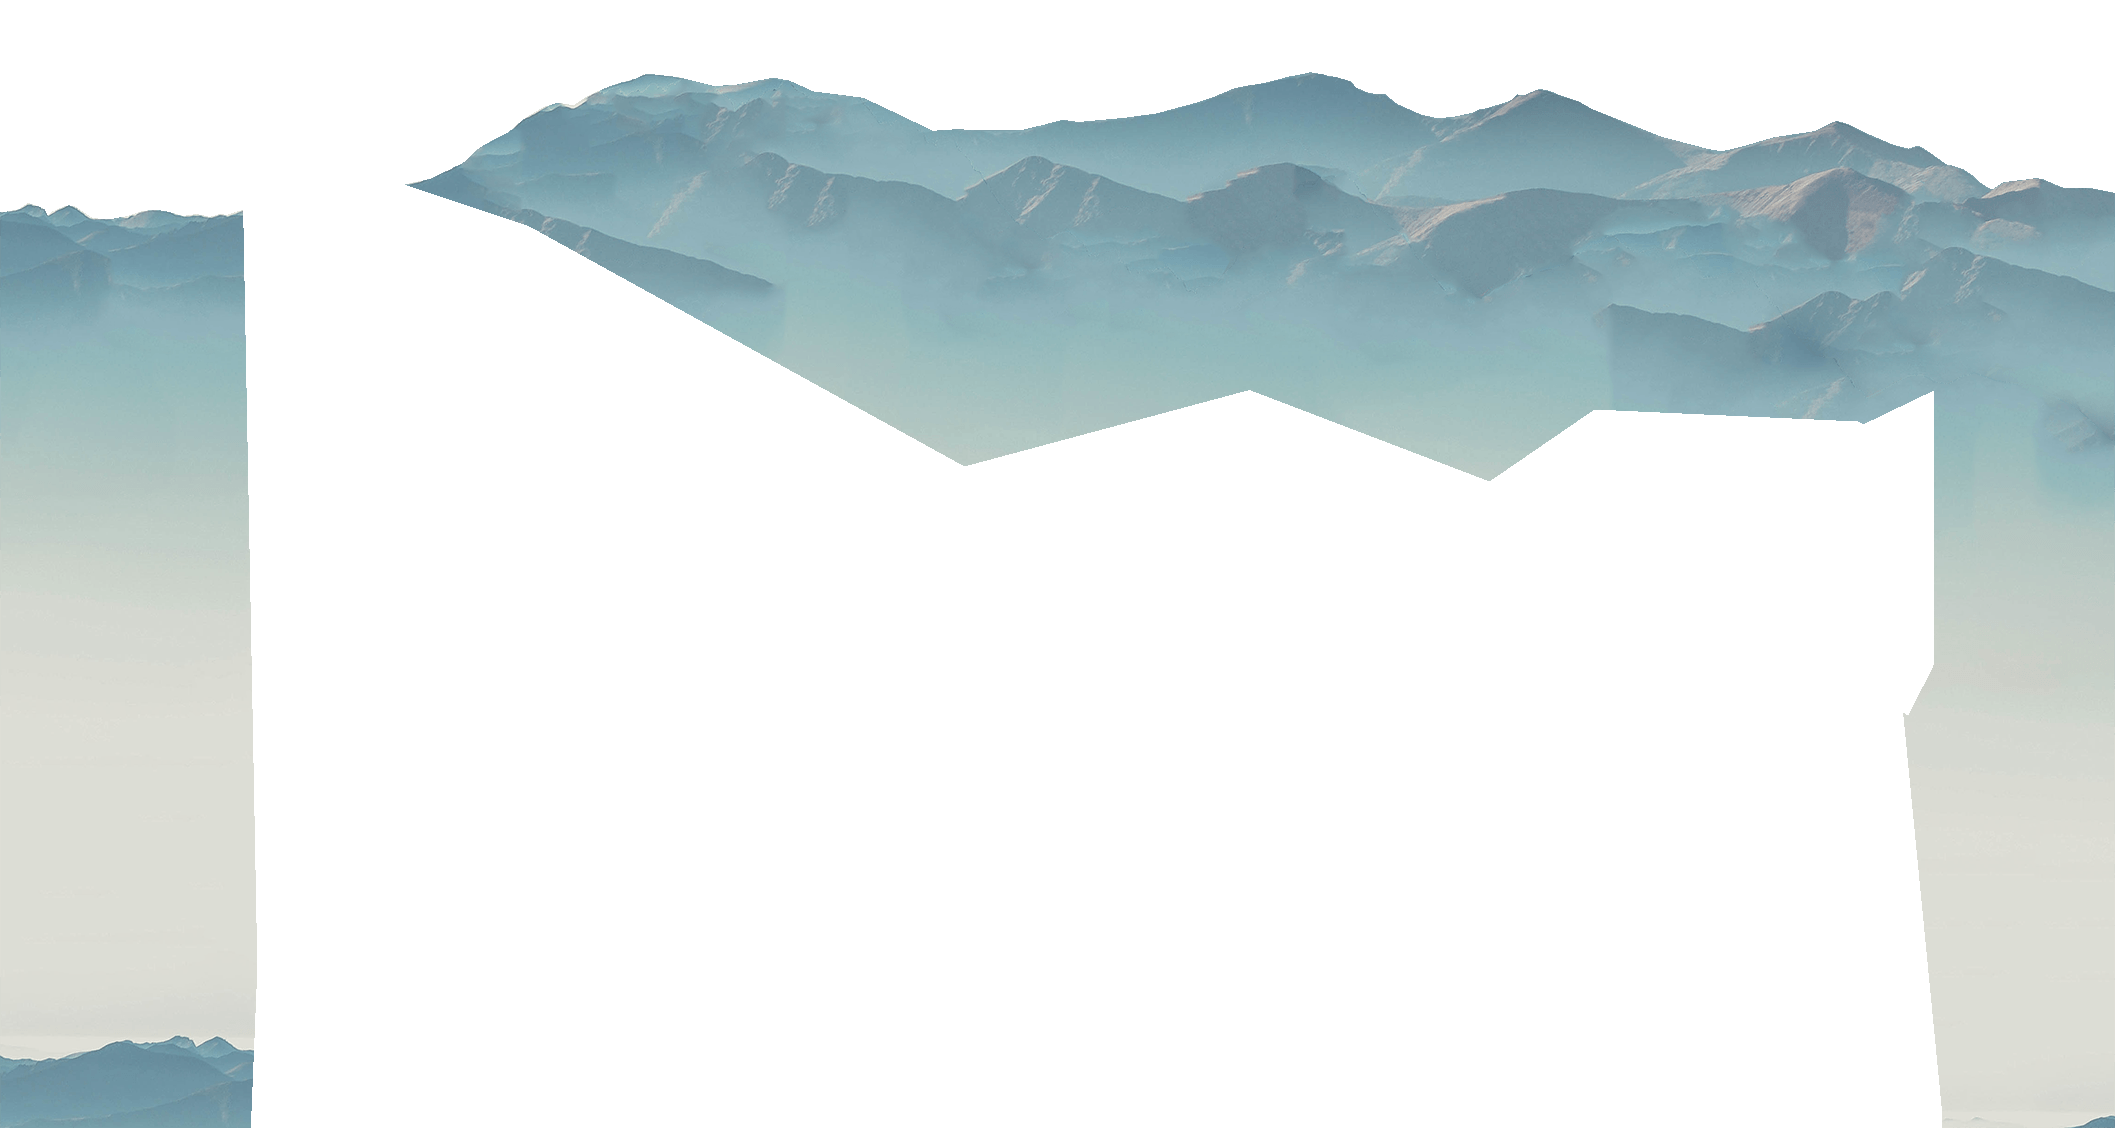
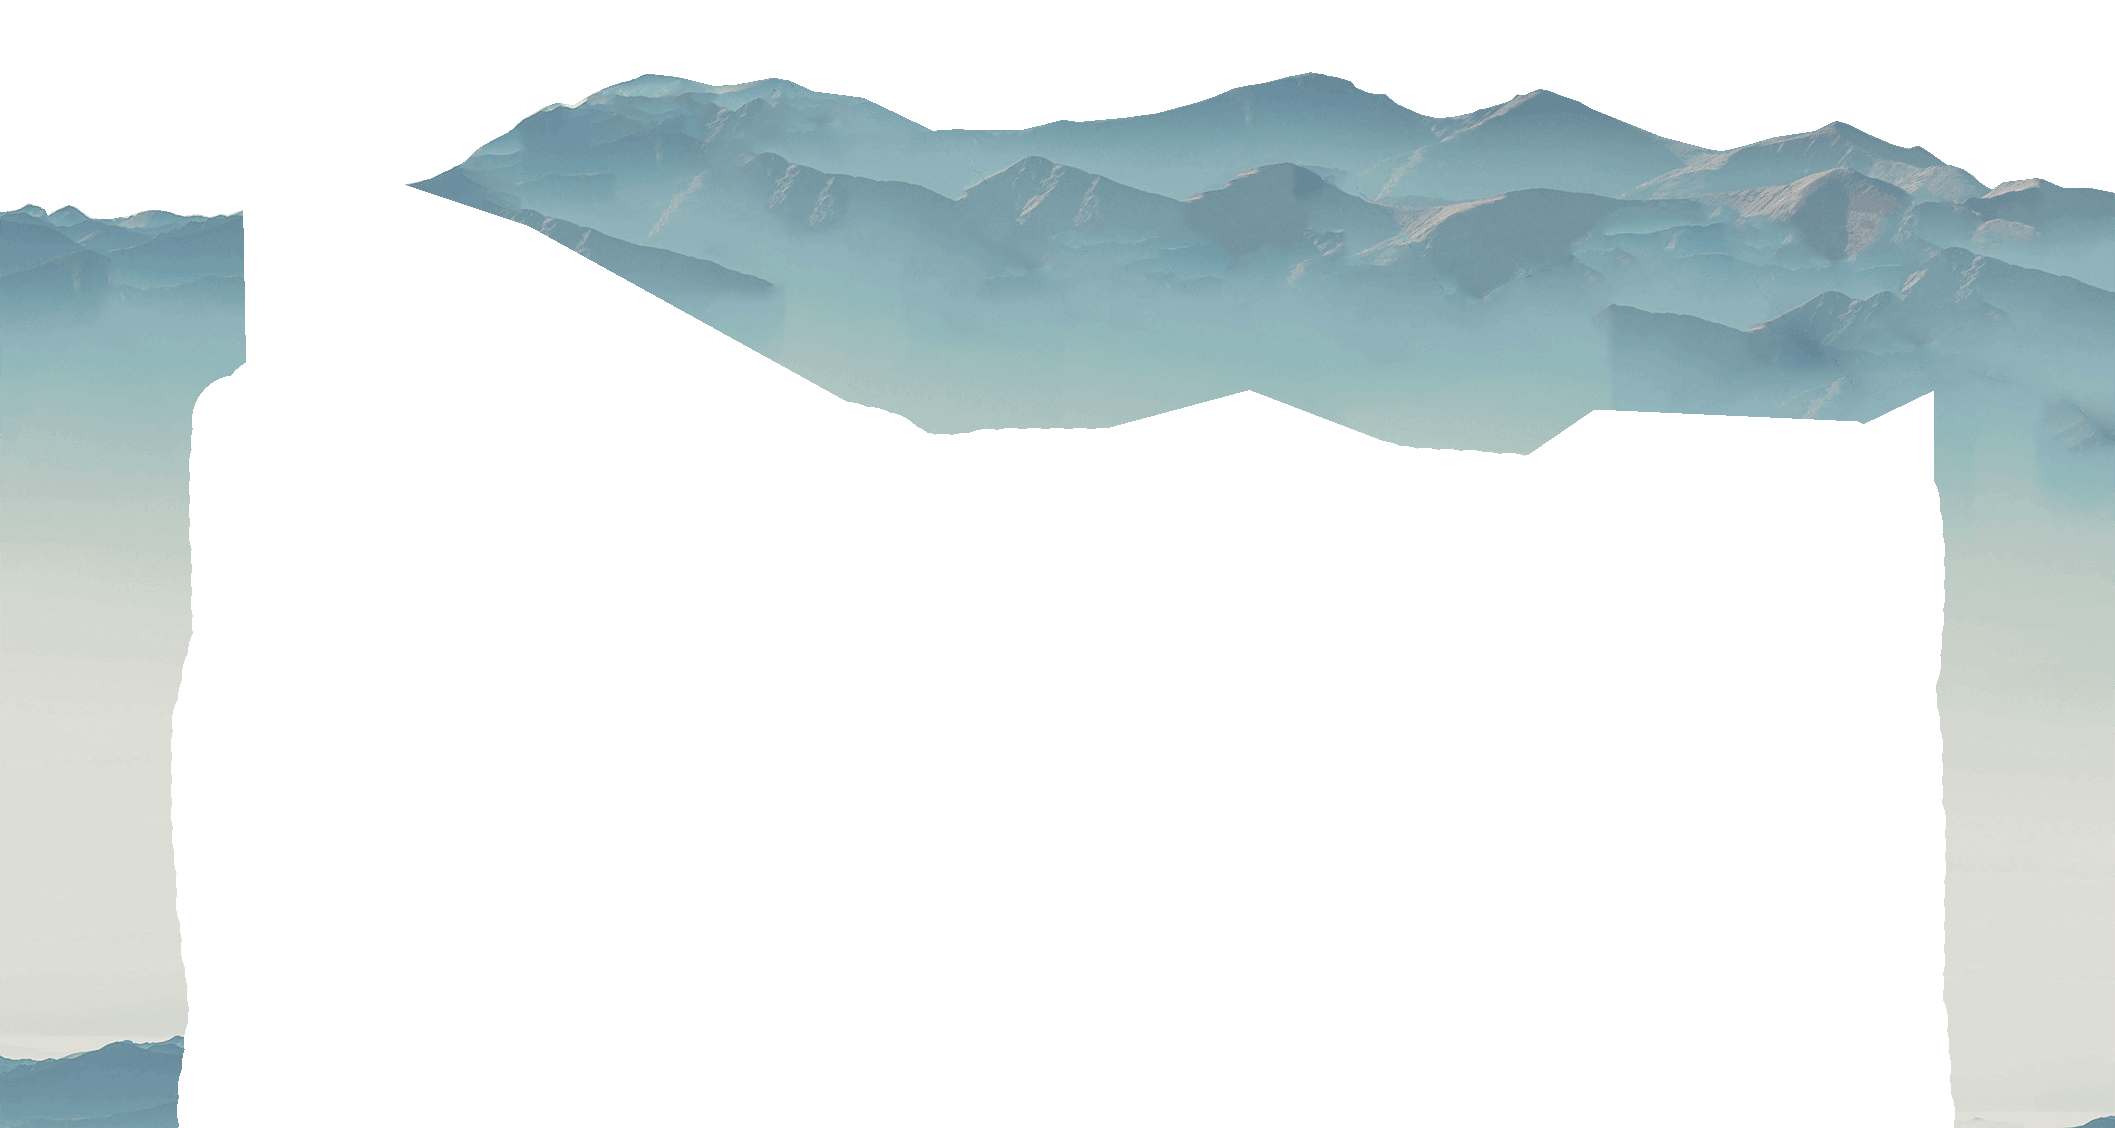
Доработан выез сайдбара на странице блог. Уменьшен размен картинок для паралакса

diff --git a/public/js/main.js b/public/js/main.js
@@ -547,27 +547,46 @@ module.exports = (function () {
 
         let
             body = $('body'),
+            header = $('header'),
+            footer = $('footer'),
+            // боковая панель
             sidebar = $('.page-nav__wrap'),
+            // стрелка возле боковой панели
             toggle = $('.page-nav__toggle'),
             blog = $('.blog'),
+            // начало касания
             touchStartX = 0,
+            // конец касания
             touchEndX = 0,
-            threshold = 50;
+            // длинна свапа для рабатывания скрипта
+            threshold = 65;
 
-        toggle.on('click', function (event) {
-
-            event.preventDefault();
-            toggle.toggleClass('page-nav__toggle--opened');
-            sidebar.toggleClass('page-nav__wrap--opened');
-
+        // toggle.on('click', function (event) {
+        //
+        //     event.preventDefault();
+        //     toggle.toggleClass('page-nav__toggle--opened');
+        //     sidebar.toggleClass('page-nav__wrap--opened');
+        //
+        // });
+        // sidebar.on('click', function (event) {
+        //
+        //     toggle.removeClass('page-nav__toggle--opened');
+        //     sidebar.removeClass('page-nav__wrap--opened');
+        //
+        // });
+        // выез сайдбара по клику
+        $(doc).click(function (e) {
+            if (e.target !== sidebar[0] && !sidebar.has(e.target).length &&
+                e.target !== toggle[0] && !toggle.has(e.target).length) {
+                toggle.removeClass('page-nav__toggle--opened');
+                sidebar.removeClass('page-nav__wrap--opened');
+            } else if (e.target === toggle[0]) {
+                toggle.toggleClass('page-nav__toggle--opened');
+                sidebar.toggleClass('page-nav__wrap--opened');
+            }
         });
 
-        sidebar.on('click', function (event) {
 
-            toggle.removeClass('page-nav__toggle--opened');
-            sidebar.removeClass('page-nav__wrap--opened');
-
-        });
 
 
         body.on('touchstart', function (event) {

diff --git a/resources/assets/js/components/sitebarOutput.js b/resources/assets/js/components/sitebarOutput.js
@@ -11,27 +11,46 @@ module.exports = (function () {
 
         let
             body = $('body'),
+            header = $('header'),
+            footer = $('footer'),
+            // боковая панель
             sidebar = $('.page-nav__wrap'),
+            // стрелка возле боковой панели
             toggle = $('.page-nav__toggle'),
             blog = $('.blog'),
+            // начало касания
             touchStartX = 0,
+            // конец касания
             touchEndX = 0,
-            threshold = 50;
+            // длинна свапа для рабатывания скрипта
+            threshold = 65;
 
-        toggle.on('click', function (event) {
-
-            event.preventDefault();
-            toggle.toggleClass('page-nav__toggle--opened');
-            sidebar.toggleClass('page-nav__wrap--opened');
-
+        // toggle.on('click', function (event) {
+        //
+        //     event.preventDefault();
+        //     toggle.toggleClass('page-nav__toggle--opened');
+        //     sidebar.toggleClass('page-nav__wrap--opened');
+        //
+        // });
+        // sidebar.on('click', function (event) {
+        //
+        //     toggle.removeClass('page-nav__toggle--opened');
+        //     sidebar.removeClass('page-nav__wrap--opened');
+        //
+        // });
+        // выез сайдбара по клику
+        $(doc).click(function (e) {
+            if (e.target !== sidebar[0] && !sidebar.has(e.target).length &&
+                e.target !== toggle[0] && !toggle.has(e.target).length) {
+                toggle.removeClass('page-nav__toggle--opened');
+                sidebar.removeClass('page-nav__wrap--opened');
+            } else if (e.target === toggle[0]) {
+                toggle.toggleClass('page-nav__toggle--opened');
+                sidebar.toggleClass('page-nav__wrap--opened');
+            }
         });
 
-        sidebar.on('click', function (event) {
 
-            toggle.removeClass('page-nav__toggle--opened');
-            sidebar.removeClass('page-nav__wrap--opened');
-
-        });
 
 
         body.on('touchstart', function (event) {
